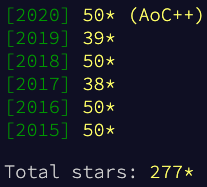
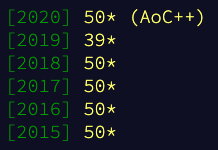
2017 - Complete!!! Updated readme & gifs

diff --git a/README.md b/README.md
@@ -34,6 +34,8 @@ fmmr solutions for Advent of code.
 [Implementations](https://github.com/fmmr/advent/tree/master/src/main/kotlin/no/rodland/advent_2017),
 [Tests](https://github.com/fmmr/advent/tree/master/src/test/kotlin/no/rodland/advent_2017)
 
+![ascii art](gifs/2017.gif?raw=true "ascii art")
+
 ## 2016
 
 [AOC](https://adventofcode.com/2016),
